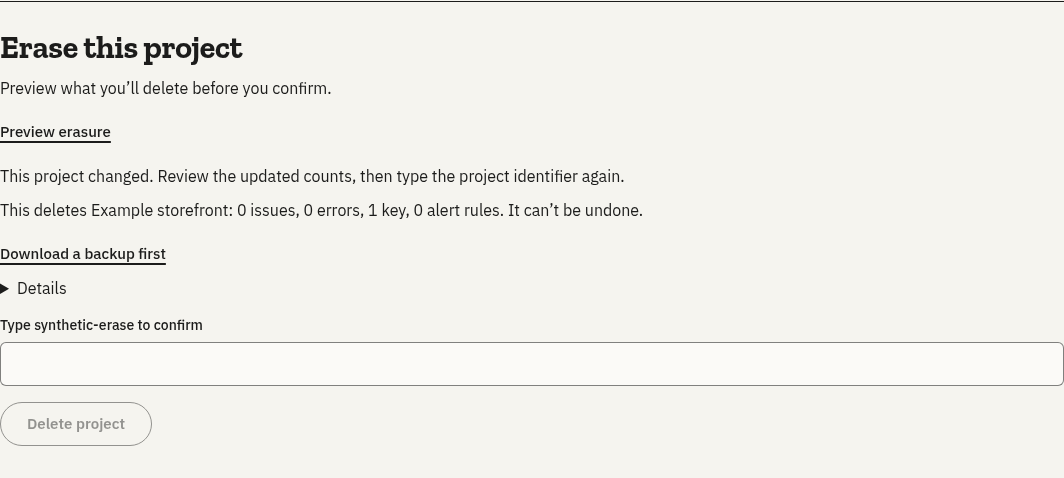
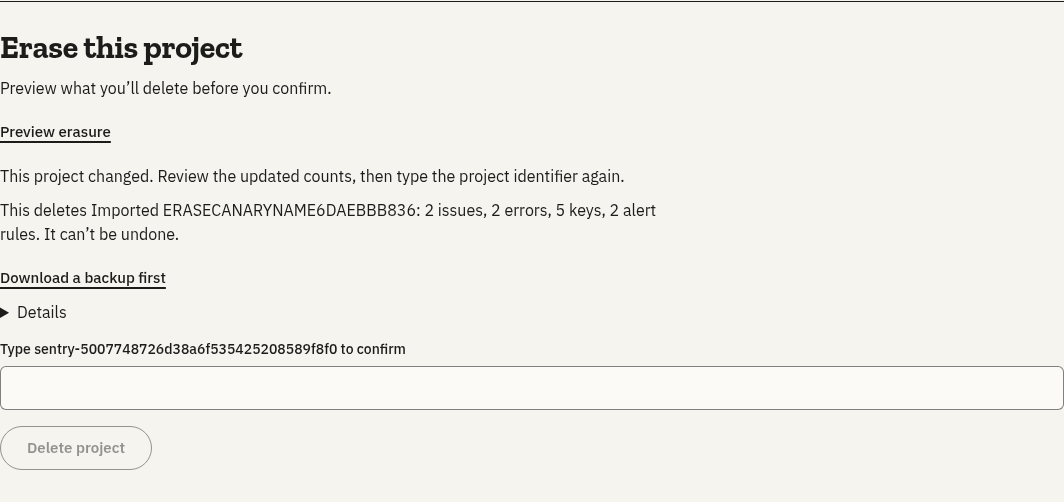
Reports for sd-spool-design-keys-5 [skip ci]

diff --git a/files/REPORT.md b/files/REPORT.md
@@ -49,3 +49,13 @@ Task sd-spool-design-keys-5 · just-every/run-spool
 - The emitted-worker owner runtime, product runtime, Sentry SDK/loader, and exact-candidate invitation suite passed. Owner runtime verified pinned Slack and cron guidance and the anonymous help paths. Invitation renders the inviter, team and scoped project before the invitee joins. Both joining and the masked invitation link are shown at each width.
 - The cloud full agent-handoff rerun again reached the 90-second dev-listener deadline during setup. A supplementary emitted-worker invocation read a valid packet over direct HTTP but failed the CLI positive control through its substitute proxy. GitHub Verify covers the unmodified end-to-end agent-handoff runner.
 - The emitted-worker erasure browser check passed on the exact candidate. A real stale-plan 409 refreshed the counts, cleared the typed identifier, disabled deletion, and kept the original project. Both updated preview widths are included. The first full dev-mode erasure attempt timed out before the listener came up. The supplemental browser check covers the changed screen and stale-confirmation behavior.
+- The full project-erasure retry cleared startup in 87 seconds and reached successful native erasure receipts in both browser widths. The packet uses that run's refreshed-preview captures and includes both receipts. The subsequent archive and storage-fence checks continued after the browser completed.
+- The exact-candidate Agent Door suite passed with system Chromium. The direct Playwright browser caller expected a Playwright cache entry. A task-local cache link selected the installed Chromium for that call. No tracked test changes were needed for browser provisioning.
+
+## Exact-SHA Verify
+
+GitHub Verify 44246266057 completed successfully on attempt 1 for 479aabb16f2a9c8ca19eb93d1eec2ba130dff227. The push was the only product publication for the task.
+
+[Verify run](https://github.com/just-every/run-spool/actions/runs/44246266057)
+
+The final local agent-handoff attempt also stopped at its 90-second dev listener deadline before running its assertions. The full GitHub workflow passed on the published SHA. The local build, Agent Door, owner runtime and selected browser results are recorded independently in CHECKS.json.
